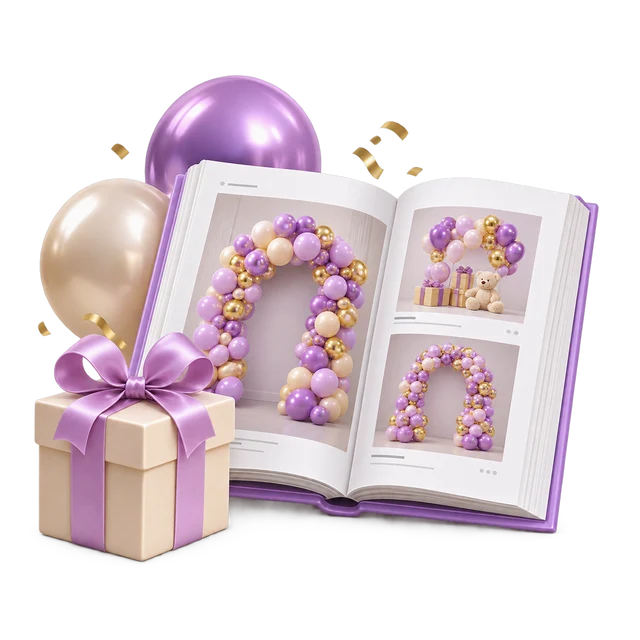
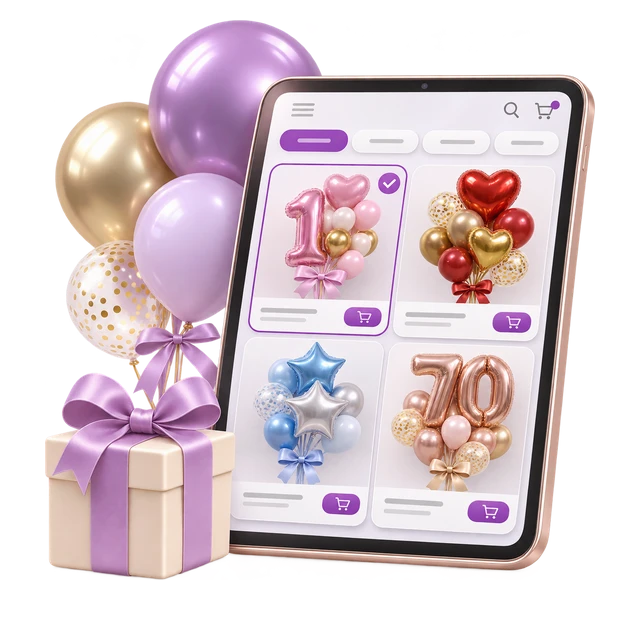
Иллюстрация «Выберите набор»: планшет с каталогом
Claude-Session: https://claude.ai/code/session_01Fytt34XpsEiyTrq7aYvPLR

diff --git a/index.html b/index.html
@@ -1672,7 +1672,7 @@ function pHome(){
    '<div class="hgrid">'+hits.map(hitCard).join('')+'</div></section>'+
   '<section class="sec cats-sec" id="new" aria-labelledby="newT"><a class="ctitle" href="#catalog" data-sortset="new"><h2 id="newT">Новинки</h2><svg width="20" height="20" viewBox="0 0 24 24" fill="none" stroke="currentColor" stroke-width="2.2" aria-hidden="true"><path d="m9 6 6 6-6 6"/></svg></a>'+
    '<div class="hgrid">'+NEW.map(byId).map(function(p){return vcard(p,"Новинка")}).join('')+'</div></section>'+
-  '<section class="sec howsec" id="how" aria-labelledby="howT"><div class="hwband"><div class="hwhead"><h2 id="howT">Как заказать</h2><p>Четыре простых шага — и праздник уже в пути</p></div><ol class="hwlist"><li class="hw"><img class="hwimg" src="img/how3d-1.webp" alt="" width="640" height="640" loading="lazy"><span class="hwic"><svg width="20" height="20" viewBox="0 0 24 24" fill="none" stroke="currentColor" stroke-width="1.6" stroke-linecap="round" stroke-linejoin="round" aria-hidden="true"><path d="M12 3.5c-2.8 0-4.8 2.3-4.8 5 0 3 2.4 5.6 4.8 5.6s4.8-2.6 4.8-5.6c0-2.7-2-5-4.8-5z"/><path d="M11.2 14.1 12 15.4l.8-1.3"/><path d="M12 15.4c0 2.2-1.6 3-1.6 5.1"/><path d="M10 7.2c.4-.9 1.1-1.5 2-1.7"/></svg></span><span class="hwn">01</span><h3>Выберите набор</h3><p>Готовые наборы в каталоге по поводу: день рождения, выписка, юбилей и другие.</p></li><li class="hw"><img class="hwimg" src="img/how3d-2.webp" alt="" width="640" height="640" loading="lazy"><span class="hwic"><svg width="20" height="20" viewBox="0 0 24 24" fill="none" stroke="currentColor" stroke-width="1.6" stroke-linecap="round" stroke-linejoin="round" aria-hidden="true"><rect x="7" y="2.5" width="10" height="19" rx="2.4"/><path d="M10 6.5h4M10 10h4M10 13.5h2.5"/><path d="M10.5 17.5h3"/></svg></span><span class="hwn">02</span><h3>Оформите заказ</h3><p>Укажите имя, телефон и способ получения. Без регистрации и предоплаты.</p></li><li class="hw"><img class="hwimg" src="img/how3d-3.webp" alt="" width="640" height="640" loading="lazy"><span class="hwic"><svg width="20" height="20" viewBox="0 0 24 24" fill="none" stroke="currentColor" stroke-width="1.6" stroke-linecap="round" stroke-linejoin="round" aria-hidden="true"><path d="M4 5.5h16v10.5H10l-4.5 3.5V16H4z"/><path d="m9 10.8 2 2 4-4.2"/></svg></span><span class="hwn">03</span><h3>Подтвердим детали</h3><p>Менеджер свяжется с вами в мессенджере или по телефону и подтвердит заказ.</p></li><li class="hw"><img class="hwimg" src="img/how3d-4.webp" alt="" width="640" height="640" loading="lazy"><span class="hwic"><svg width="20" height="20" viewBox="0 0 24 24" fill="none" stroke="currentColor" stroke-width="1.6" stroke-linecap="round" stroke-linejoin="round" aria-hidden="true"><rect x="4" y="10" width="16" height="10.5" rx="1.5"/><path d="M3 7h18v3H3zM12 7v13.5"/><path d="M12 7c-1.5-3-5-3.5-5-1.4C7 7 10 7 12 7zm0 0c1.5-3 5-3.5 5-1.4C17 7 14 7 12 7z"/></svg></span><span class="hwn">04</span><h3>Получите и оплатите</h3><p>Привезём в удобное время или заберёте сами. Оплата наличными или картой.</p></li></ol><div class="hwcta"><a class="dark-pill hwbtn" href="#catalog">Выбрать композицию <svg width="18" height="18" viewBox="0 0 24 24" fill="none" stroke="currentColor" stroke-width="2.2" aria-hidden="true"><path d="M5 12h14M13 6l6 6-6 6"/></svg></a><span>Заранее платить не нужно</span></div></div></section>'+
+  '<section class="sec howsec" id="how" aria-labelledby="howT"><div class="hwband"><div class="hwhead"><h2 id="howT">Как заказать</h2><p>Четыре простых шага — и праздник уже в пути</p></div><ol class="hwlist"><li class="hw"><img class="hwimg" src="img/how3d-1.webp?v=2" alt="" width="640" height="640" loading="lazy"><span class="hwic"><svg width="20" height="20" viewBox="0 0 24 24" fill="none" stroke="currentColor" stroke-width="1.6" stroke-linecap="round" stroke-linejoin="round" aria-hidden="true"><path d="M12 3.5c-2.8 0-4.8 2.3-4.8 5 0 3 2.4 5.6 4.8 5.6s4.8-2.6 4.8-5.6c0-2.7-2-5-4.8-5z"/><path d="M11.2 14.1 12 15.4l.8-1.3"/><path d="M12 15.4c0 2.2-1.6 3-1.6 5.1"/><path d="M10 7.2c.4-.9 1.1-1.5 2-1.7"/></svg></span><span class="hwn">01</span><h3>Выберите набор</h3><p>Готовые наборы в каталоге по поводу: день рождения, выписка, юбилей и другие.</p></li><li class="hw"><img class="hwimg" src="img/how3d-2.webp" alt="" width="640" height="640" loading="lazy"><span class="hwic"><svg width="20" height="20" viewBox="0 0 24 24" fill="none" stroke="currentColor" stroke-width="1.6" stroke-linecap="round" stroke-linejoin="round" aria-hidden="true"><rect x="7" y="2.5" width="10" height="19" rx="2.4"/><path d="M10 6.5h4M10 10h4M10 13.5h2.5"/><path d="M10.5 17.5h3"/></svg></span><span class="hwn">02</span><h3>Оформите заказ</h3><p>Укажите имя, телефон и способ получения. Без регистрации и предоплаты.</p></li><li class="hw"><img class="hwimg" src="img/how3d-3.webp" alt="" width="640" height="640" loading="lazy"><span class="hwic"><svg width="20" height="20" viewBox="0 0 24 24" fill="none" stroke="currentColor" stroke-width="1.6" stroke-linecap="round" stroke-linejoin="round" aria-hidden="true"><path d="M4 5.5h16v10.5H10l-4.5 3.5V16H4z"/><path d="m9 10.8 2 2 4-4.2"/></svg></span><span class="hwn">03</span><h3>Подтвердим детали</h3><p>Менеджер свяжется с вами в мессенджере или по телефону и подтвердит заказ.</p></li><li class="hw"><img class="hwimg" src="img/how3d-4.webp" alt="" width="640" height="640" loading="lazy"><span class="hwic"><svg width="20" height="20" viewBox="0 0 24 24" fill="none" stroke="currentColor" stroke-width="1.6" stroke-linecap="round" stroke-linejoin="round" aria-hidden="true"><rect x="4" y="10" width="16" height="10.5" rx="1.5"/><path d="M3 7h18v3H3zM12 7v13.5"/><path d="M12 7c-1.5-3-5-3.5-5-1.4C7 7 10 7 12 7zm0 0c1.5-3 5-3.5 5-1.4C17 7 14 7 12 7z"/></svg></span><span class="hwn">04</span><h3>Получите и оплатите</h3><p>Привезём в удобное время или заберёте сами. Оплата наличными или картой.</p></li></ol><div class="hwcta"><a class="dark-pill hwbtn" href="#catalog">Выбрать композицию <svg width="18" height="18" viewBox="0 0 24 24" fill="none" stroke="currentColor" stroke-width="2.2" aria-hidden="true"><path d="M5 12h14M13 6l6 6-6 6"/></svg></a><span>Заранее платить не нужно</span></div></div></section>'+
 
 
   '<section class="sec rvsec" id="reviews" aria-labelledby="revT"><div class="rvband"><h2 class="rvh" id="revT">Настоящие праздники.<br><span class="acc-word">Настоящие эмоции.</span></h2>'+
